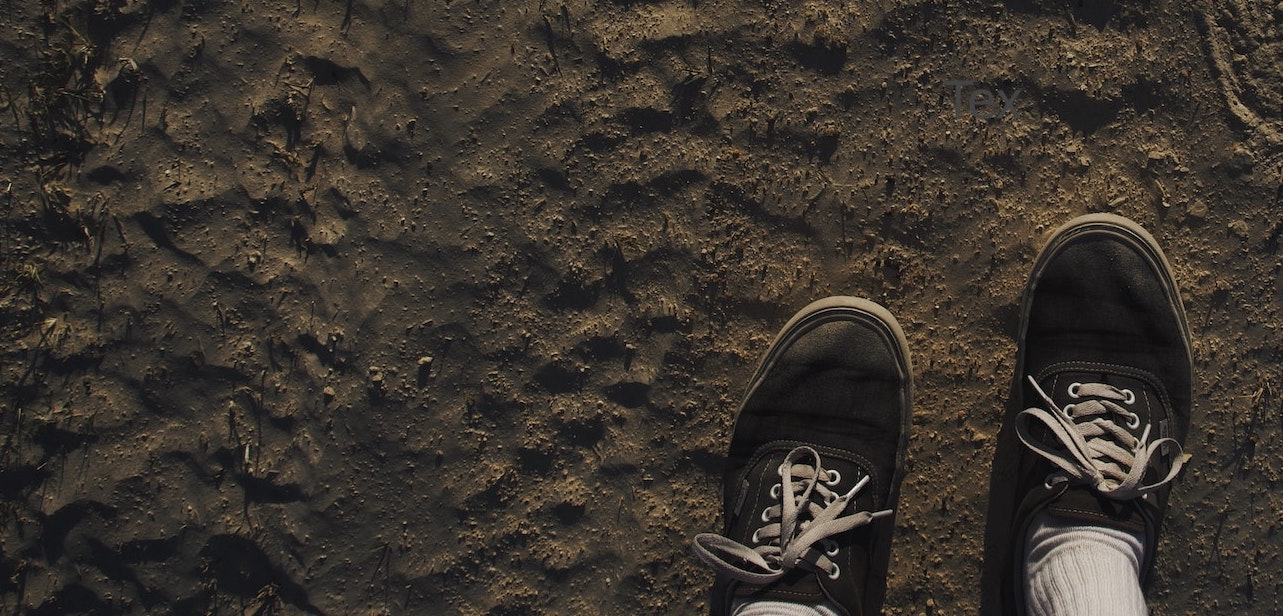
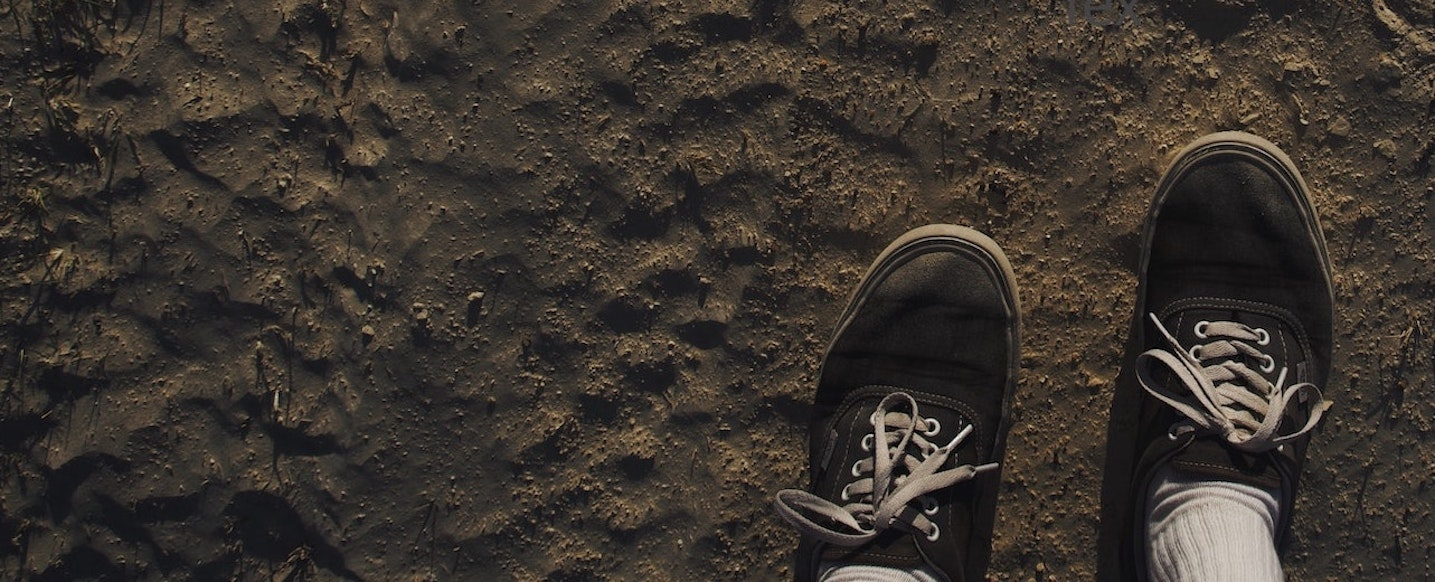
gettin close

diff --git a/client/src/components/get-involved/GetInvolved.js b/client/src/components/get-involved/GetInvolved.js
@@ -8,8 +8,8 @@ import GetInvolvedImage from "./GetInvolvedImage"
 
 function GetInvolvedIntro() {
   return (
-<div className="body-text">
-  <p><strong>GIVE YOUR LIFE, DON’T TAKE IT</strong> expands the suicide prevention conversation to provide avenues for reciprocity and active giving as pathways to immediate usefulness and perspective for men, women, teens, vets, and seniors who stand on the suicidal trailheads of loss, feeling overwhelmed, shame, and disconnect. Studies support this strategy of providing a way for suffers to be active-givers versus passive-receivers to reduce suicidal depression and ideation.<sup>2</sup> </p>
+<div className="body-text mx-5">
+  <p><strong>GIVE YOUR LIFE, DON’T TAKE IT</strong> expands the suicide prevention conversation to provide avenues for reciprocity and active giving as pathways to immediate usefulness and perspective for men, women, teens, vets, and seniors who stand on the suicidal trailheads of loss, feeling overwhelmed, shame, and disconnect. Studies support this strategy of providing a way for suffers to be active-givers versus passive-receivers to reduce suicidal depression and ideation.<sup>1</sup> </p>
 
 
   <p>Obviously, breaking through suicidal despair is a daunting task. Yet, for those who hide their pain and intent, the odds of breaking through the fatal mental agony is nearly impossible. The simple redirection toward doing and giving will not stop suicide for every sufferer but will do so for such a significant number that it cannot be ignored. We need your help to accomplish our mission. 
@@ -19,10 +19,7 @@ function GetInvolvedIntro() {
   <footer>
     <ul>
       <li>
-        <a href="National Institute of Mental Health: Suicide Statistic"><sup>1</sup>National Institute of Mental Health: Suicide Statistic</a>
-      </li>
-      <li>
-        <a href="https://www.icloud.com/iclouddrive/07e11STHpY1sThK7hNcVOESQg#White_Paper_Suicide_Prevention" target="_blank"><sup>2</sup>GIVE YOUR LIFE, DON'T TAKE IT: White Paper (click to download)</a>
+        <a href="https://www.icloud.com/iclouddrive/07e11STHpY1sThK7hNcVOESQg#White_Paper_Suicide_Prevention" target="_blank"><sup>1</sup>GIVE YOUR LIFE, DON'T TAKE IT: White Paper (click to download)</a>
         </li>
     </ul>
   </footer>
@@ -36,7 +33,7 @@ function GetInvolvedIntro() {
 
 function GetInvolvedWaysTo() {
   return (
-    <div className="bg-dark white-text mx-4 mb-4 py-2">
+    <div className="bg-dark white-text mx-4 mb-4 py-3 rounded">
       <h1>Ways to Get Involved</h1>
         <div id='div-container'>
             <Row className="mt-3 d-flex align-items-center">

diff --git a/client/src/components/home/Carousel.js b/client/src/components/home/Carousel.js
@@ -11,11 +11,11 @@ import '../../App.css';
 function Slider() {
 
     return (
-    <div>
-  <Carousel style={{height: 550}}>
+  <div>
+  <Carousel id='carousel'>
   <Carousel.Item autoplay={ false } >
     <img
-      className='.img-fluid. max-width: 100% d-block w-100'
+      className='c-image resize d-block w-100'
       height = {550}
       src={first}
     />
@@ -26,34 +26,32 @@ x    </div>
 
   <Carousel.Item>
     <img
-      className='resize d-block w-100'
+      className='c-image resize d-block w-100'
       height = {550}
       src={second}
     />
       <div className="carousel-centered">
-    <p className="carousel-text">"The best way to find yourself is to
-      lose yourself in the service of others."</p>
+    <p className="carousel-text">"The best way to find yourself is to lose yourself in the service of others."</p>
     <p className="carousel-text d-flex justify-content-end">- Mahatma Gandhi </p> 
     </div>
   </Carousel.Item>
 
   <Carousel.Item>
     <img
-      className='resize d-block w-100'
+      className='c-image resize d-block w-100'
       height = {550}
       src={third}
     />
 <div className="carousel-centered">
-    <p className="carousel-text"><b>If you are asking the question: </b> Would it be better if I wasn’t here?</p>
-      <p className="carousel-text"><b>The answer is: </b> No one can take your place. People you haven’t met yet or who are not even born need you. </p>
+    <p className="carousel-text"><strong>If you are asking the question: </strong> Would it be better if I wasn’t here?</p>
+      <p className="carousel-text"><strong>The answer is: </strong> No one can take your place. People you haven’t met yet or who are not even born need you. </p>
     </div>
   </Carousel.Item>
 
   <Carousel.Item>
     <img
-      class='resize'
       height = {550}
-      className="d-block w-100 img-responsive"
+      className="c-image resize d-block w-100"
       src={fourth}
     />
     <div className="carousel-centered">

diff --git a/client/src/App.css b/client/src/App.css
@@ -139,6 +139,7 @@ footer li a {
   z-index: 2;
   width: 97%;
   border-radius: .5rem;
+  margin-top: 1.5%
  /* border-radius: 1rem; */
 }
 
@@ -146,20 +147,20 @@ footer li a {
   display: flex;
   justify-content: center;
   align-items: center;
-
 }
 
 #logo {
-  max-width: 4em;
+  max-width: 6em;
   height: auto;
-  margin-top: -2.3rem;
+  margin-top: -3.3rem;
   /* height: 85%; what DC added in */
   position: absolute;
 }
 
 #basic-navbar {
-  padding-left: 5%;
-  /* font-size: 1rem; */
+  padding-left: 10%;
+  font-size: 1.5rem;
+
 }
 
 .nav-link:hover {
@@ -180,8 +181,12 @@ p {
   font-size: 1.5rem;
 }
 
+#carousel {
+  height: 550px;
+}
+
 .carousel-title{
-  font-size: 4rem;
+  font-size: 3.5rem;
   font-weight: 750;
   letter-spacing: 0.05em;
   padding: 2rem;
@@ -198,6 +203,27 @@ p {
 }
 
 @media screen and (max-width: 414px) {
+  
+  img.c-image {
+    height: 350px;
+  }
+
+  #carousel {
+    height: 350px;
+  }
+  
+  p.carousel-text {
+    font-size: 1.25rem;
+  }
+
+  .carousel-centered {
+    margin-top: 10%;
+  }
+
+  .carousel-title {
+    font-size: 2rem;
+  }
+  
   p {
      font-size: 1.2rem;
      padding: 0;
@@ -212,8 +238,13 @@ p {
     padding: 0 1rem
   }
 
-  #basic-navbar-nav {
-    padding-top: 4%;
+  #basic-navbar {
+    padding-top: 10%;
+  }
+
+  #logo {
+    margin-top: -2.5rem;
+    max-width: 4em;
   }
 
   }

diff --git a/client/src/components/about-us/Founder.js b/client/src/components/about-us/Founder.js
@@ -9,8 +9,8 @@ function Founder(){
     <div className="body-text">
         <p><strong>GIVE YOUR LIFE, DON'T TAKE IT</strong> is a nonprofit that gives people experiencing pain and loss an alternative when life feels unlivable. Our approach specifically targets those who have lost hope due to external circumstances, versus those who may be intrinsically driven toward suicide by chemical imbalance, dependency, or chronic psychological issues. Expanding the suicide prevention conversation is essential to providing avenues for reciprocity and active giving as pathways to immediate usefulness and perspective.</p>
     </div>
-    <div className="container yellowBackground py-4" >
-        <h2>Why We Do It</h2>
+    <div className="container yellowBackground py-4 rounded" >
+        <h2 className="body-text">Why We Do It</h2>
         <Row className='mx-1 d-flex align-items-center'>
             <Col lg={3}>
             <iframe className="mb-3"

diff --git a/client/src/components/home/BodyCard.js b/client/src/components/home/BodyCard.js
@@ -15,7 +15,7 @@ function BodyCard(){
 
 
 
-    <div className="py-3 my-3" id="whatIf-div">
+    <div className="py-3 my-3 rounded" id="whatIf-div">
         <p><strong>Some believe that they only have two options: 1) living with the terrible pain or 2) taking thier life. The 3rd option is give your life, don't take it.</strong></p>
         
     </div>

diff --git a/client/src/components/about-us/Bio.js b/client/src/components/about-us/Bio.js
@@ -5,7 +5,7 @@ import pam from '../../assets/pam-boyd.jpg';
 
 function Bio(){
     return(
-        <div className="container " id='pamCard'>
+        <div className="container mb-3" id='pamCard'>
             <div className="row pt-1 d-flex align-items-center">
                 <div className="col-4">
                 <img id='pamPic' src={pam}/>
